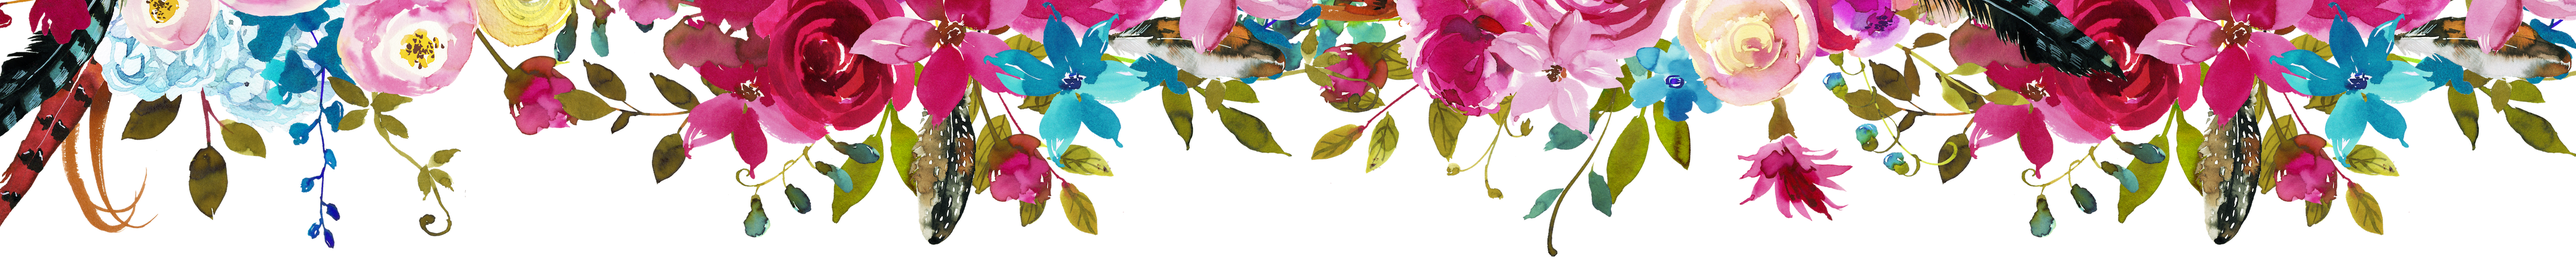
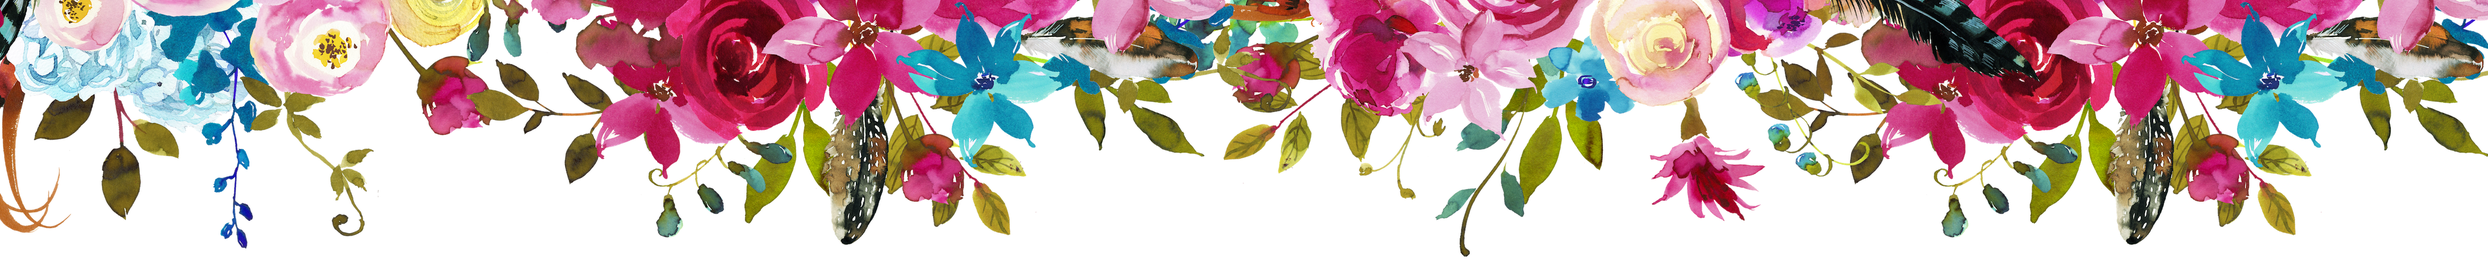
image resize

diff --git a/style.css b/style.css
@@ -33,6 +33,7 @@ body {
     width: 100%;
     overflow: clip;
     margin-bottom: 60px;
+    content:url(assets/flower_ceiling.png);
 }
 
 section.wide {
@@ -228,9 +229,7 @@ a:hover {
 
 @media only screen and (max-width: 1440px) {
     .ceiling {
-        height: 200px;
-        width: auto;
-        overflow-x:hidden;
+        content:url(assets/flower_ceiling_medium.png);
     }
 }
 
@@ -258,5 +257,12 @@ a:hover {
 
     .photo {
         display: inline;
+    }
+    
+}
+
+@media only screen and (max-width: 600px) {
+    .ceiling {
+        content:url(assets/flower_ceiling_small.png);
     }
 }

diff --git a/index.html b/index.html
@@ -12,7 +12,7 @@
     <link rel="icon" href="favicon.ico" type="image/x-icon">
 </head>
 <body>
-    <img class="ceiling" src="assets/flower_ceiling.png" style="overflow-x:hidden;">
+    <img class="ceiling" style="overflow-x:hidden;">
 
 
     <section class="centered-text wide"> <!--Header-->
